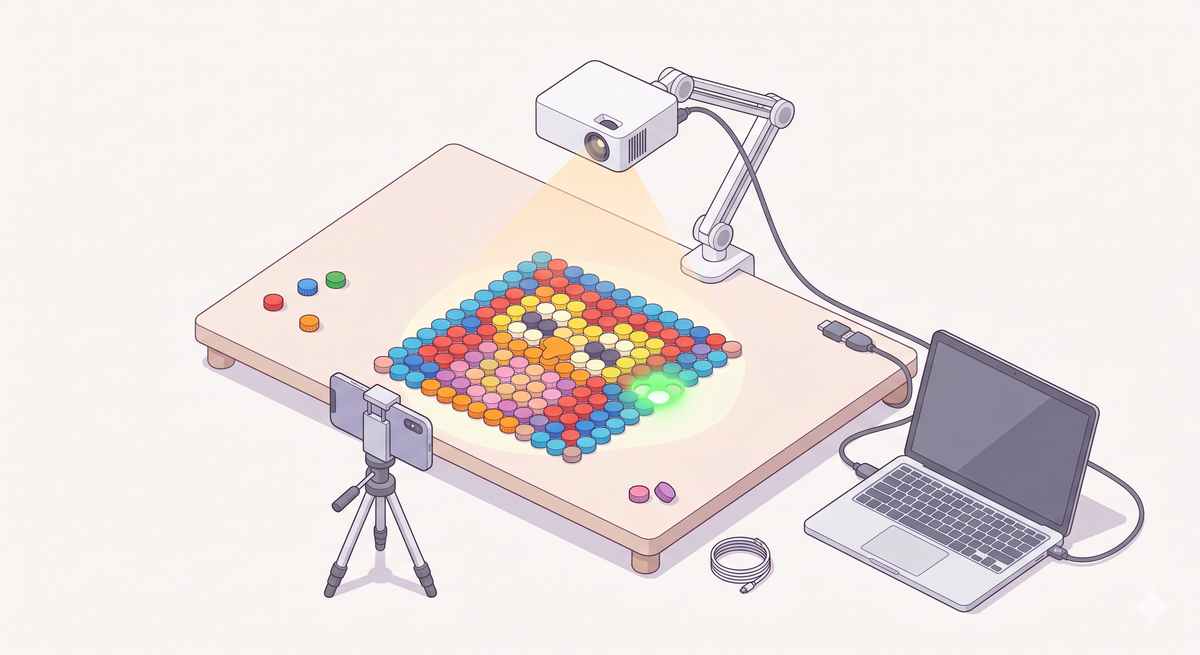
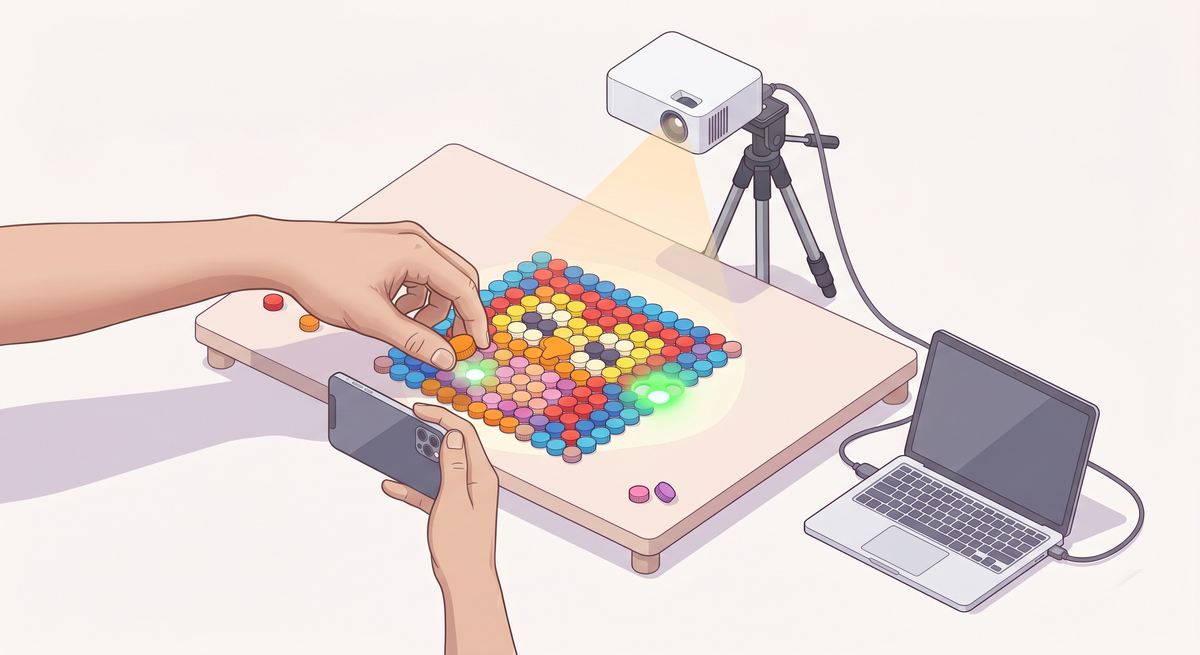
docs: corrected rig illustration + finished-mosaic-from-afar image
- rig-hero: projector on a tripod, single HDMI cable, hand placing a cap
- mosaic-from-afar: finished piece read as a painting from across a room,
  added to the viewing-distance section

diff --git a/docs/RIG_SETUP.md b/docs/RIG_SETUP.md
@@ -101,6 +101,9 @@ placement, so you can stop and resume across sessions.
 
 ![Viewing distance](images/viewing-distance.svg)
 
+![Finished mosaic seen from across a room](images/mosaic-from-afar.png)
+
+From a few metres back the caps blend and the piece reads like a real painting.
 With 32 mm caps a bold subject reads from **~3–5 m**; a ~0.7 m piece looks best
 around **3 m**. Build in a **dim** room (500 ANSI lumens) so the rings show;
 the finished, glued piece is viewed in normal light.